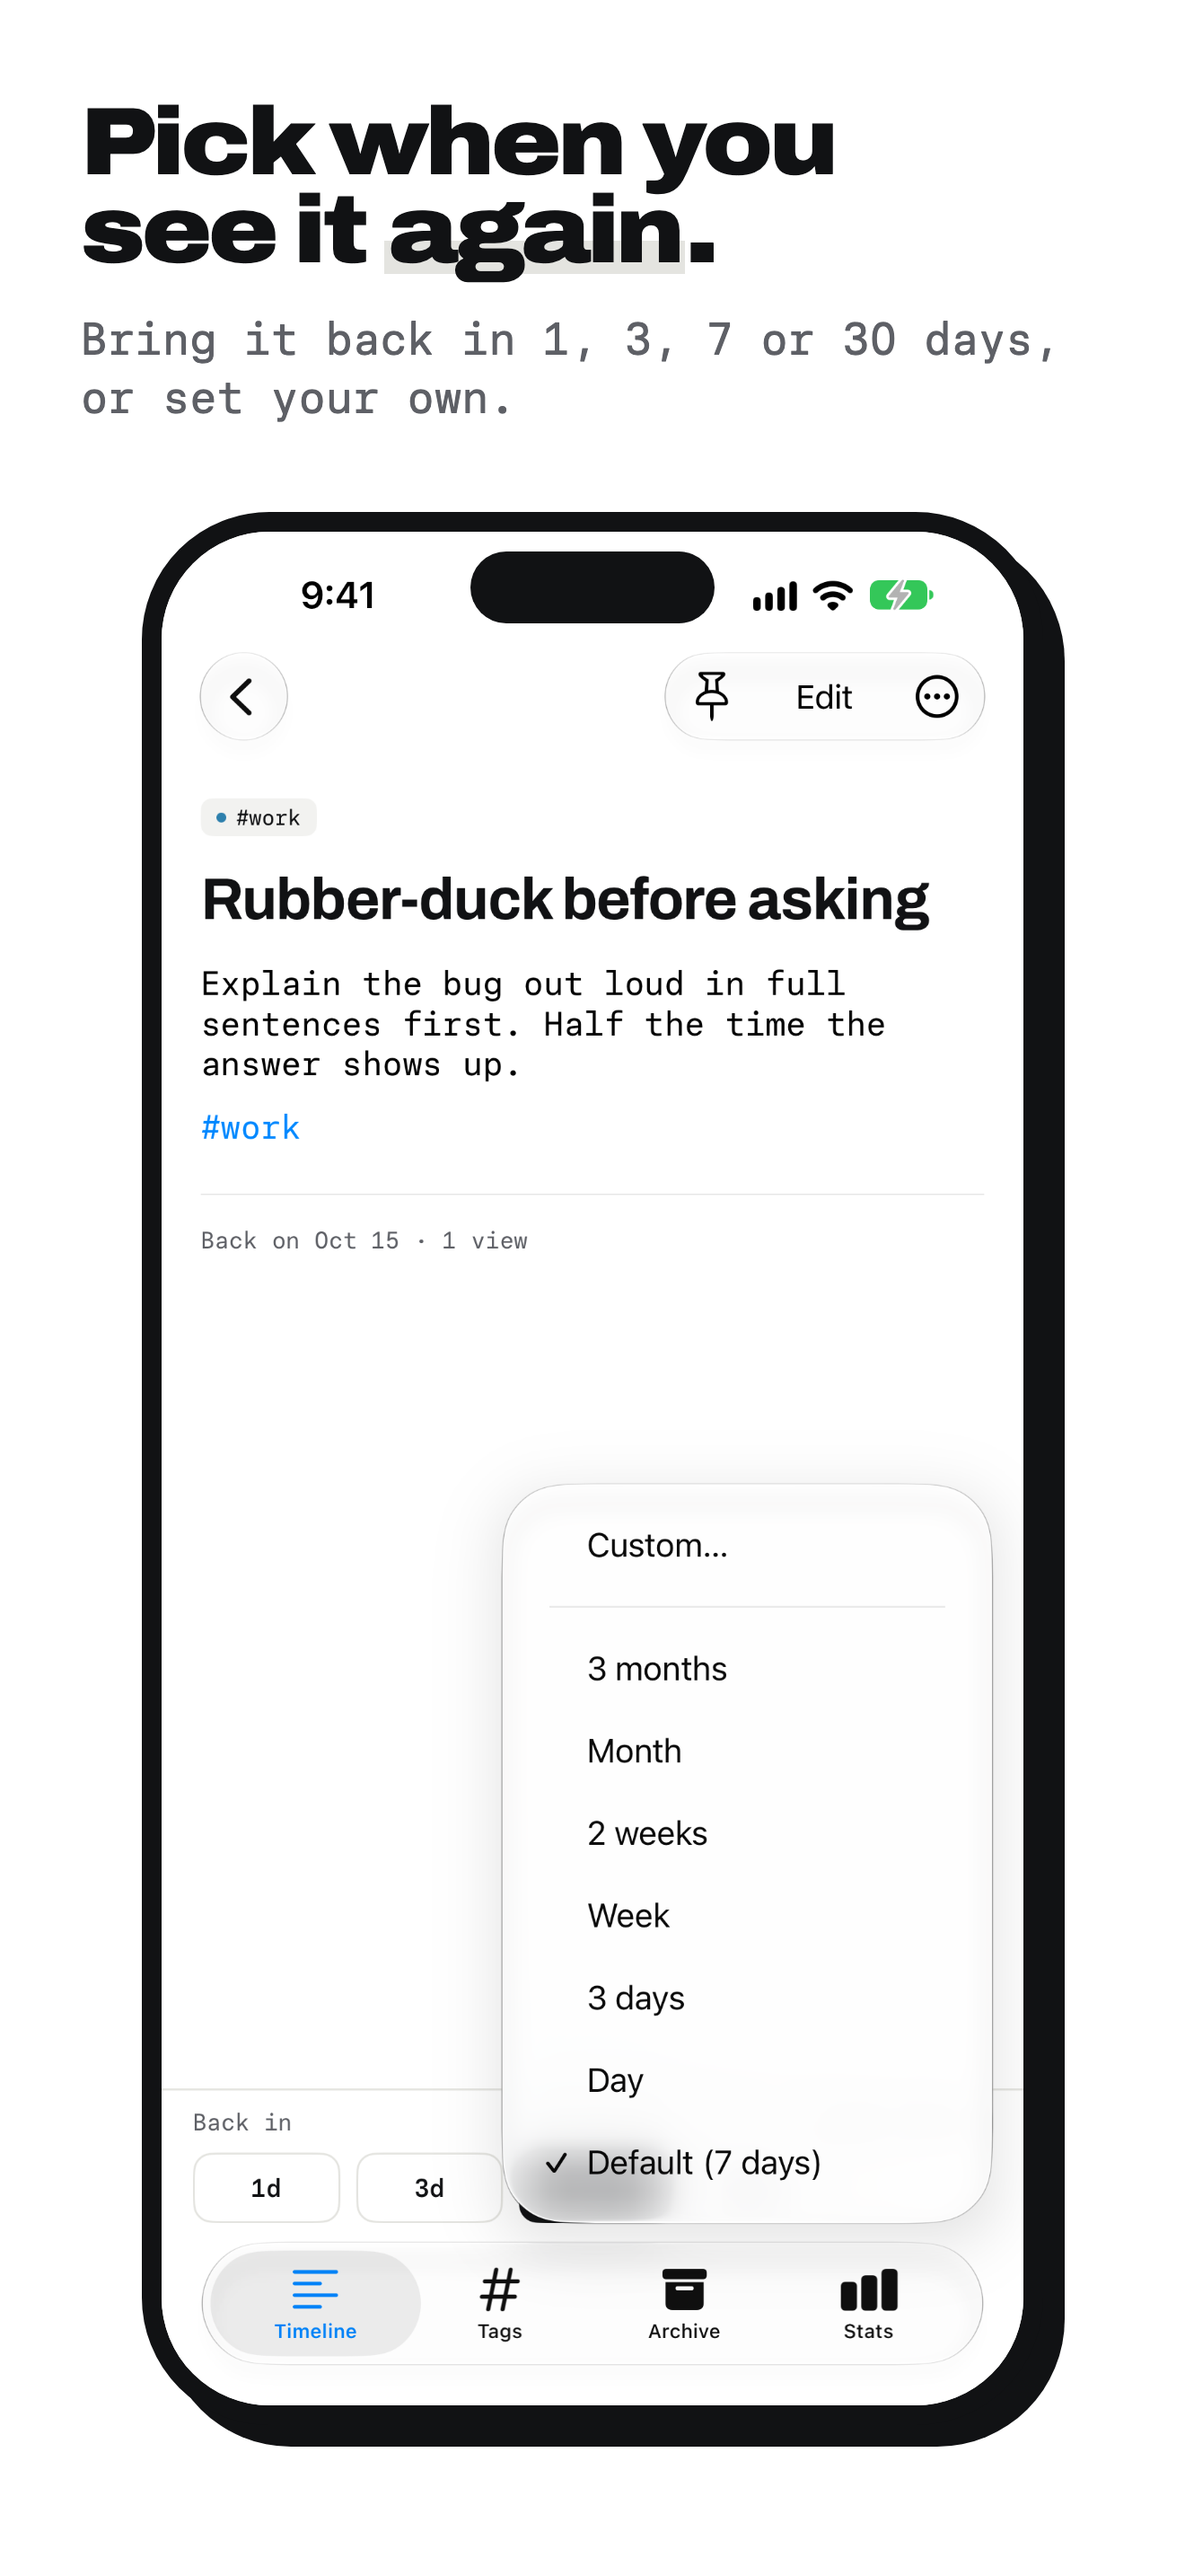
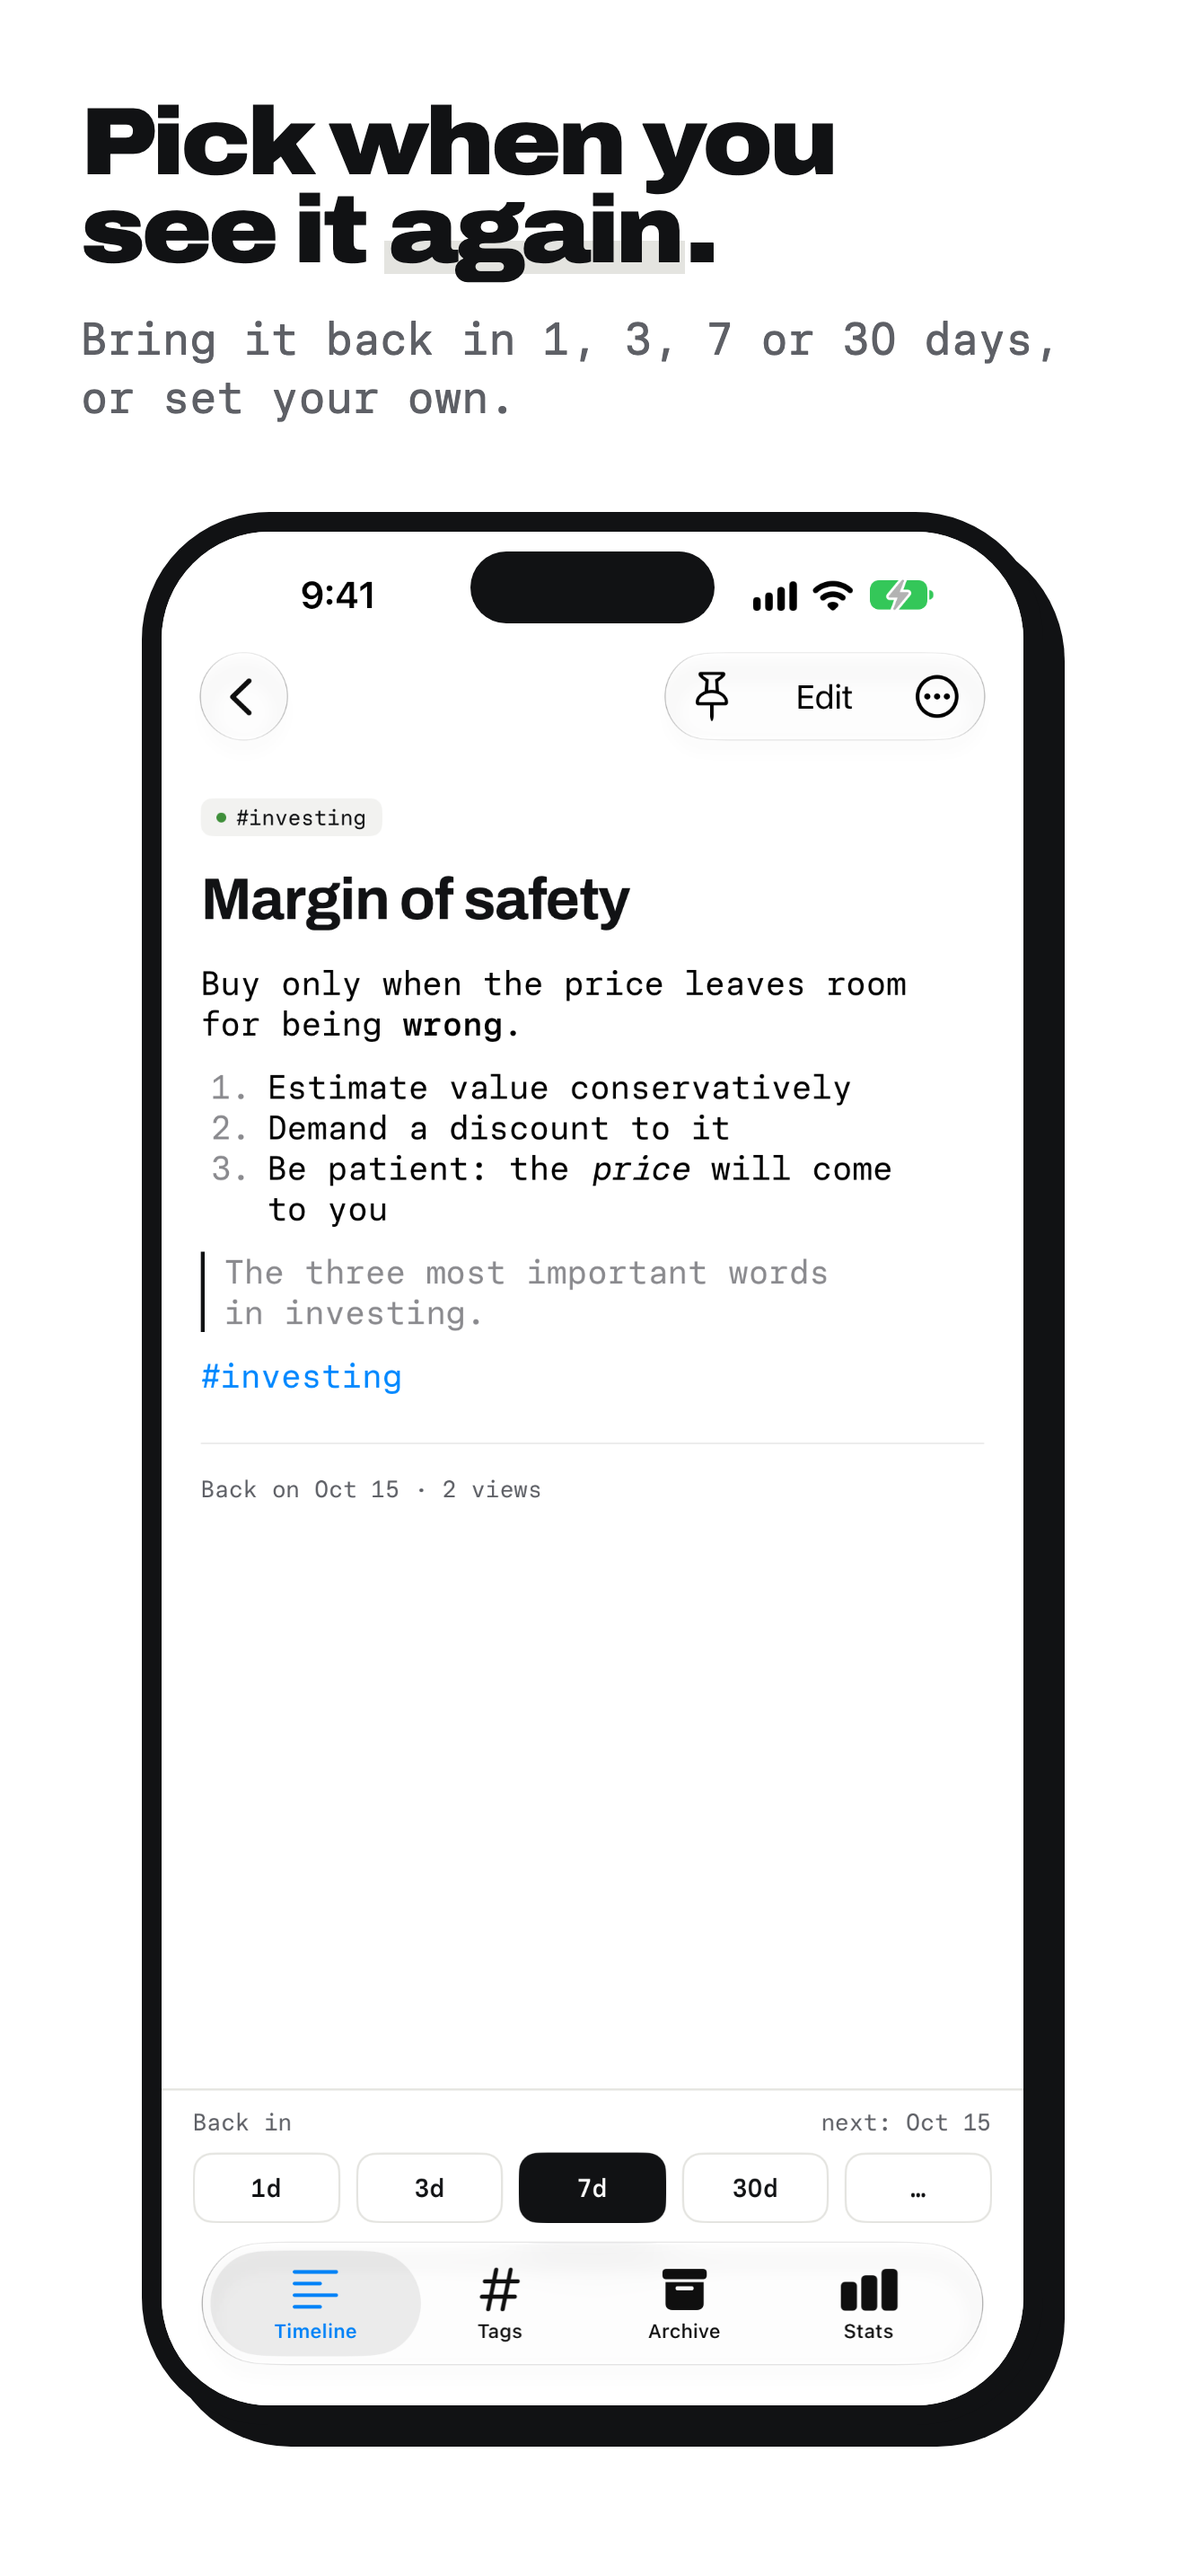
Screenshots: cleaner timeline seed, unobstructed interval bar, Lock Screen reminder notification
Claude-Session: https://claude.ai/code/session_015ZdQoipN7K44pJCazTdfff

diff --git a/ThoughtRepsUITests/ScreenshotTests.swift b/ThoughtRepsUITests/ScreenshotTests.swift
@@ -8,14 +8,17 @@ final class ScreenshotTests: XCTestCase {
 
     override func setUp() {
         continueAfterFailure = false
-        app = XCUIApplication()
-        app.launchArguments = ["-screenshotMode", "-AppleLanguages", "(en)", "-AppleLocale", "en_US"]
         XCUIDevice.shared.orientation = .portrait
+    }
+
+    private func launch(_ extraArguments: [String] = []) {
+        app = XCUIApplication()
+        app.launchArguments = ["-screenshotMode", "-AppleLanguages", "(en)", "-AppleLocale", "en_US"] + extraArguments
         app.launch()
     }
 
-    private func snap(_ name: String) {
-        Thread.sleep(forTimeInterval: 1.0)
+    private func snap(_ name: String, settle: TimeInterval = 1.0) {
+        Thread.sleep(forTimeInterval: settle)
         let attachment = XCTAttachment(data: XCUIScreen.main.screenshot().pngRepresentation, uniformTypeIdentifier: "public.png")
         attachment.name = name
         attachment.lifetime = .keepAlways
@@ -29,26 +32,27 @@ final class ScreenshotTests: XCTestCase {
     }
 
     func testTimeline() {
-        XCTAssertTrue(app.staticTexts["Margin of safety"].waitForExistence(timeout: 10))
+        launch()
+        XCTAssertTrue(app.staticTexts["Weekend in the mountains"].waitForExistence(timeout: 10))
         snap("01-timeline")
     }
 
     func testIntervalPicker() {
-        openThought("Rubber-duck before asking")
-        let more = app.buttons["More intervals"]
-        XCTAssertTrue(more.waitForExistence(timeout: 10))
-        more.tap()
-        XCTAssertTrue(app.buttons["Custom…"].waitForExistence(timeout: 10))
+        launch()
+        openThought("Margin of safety")
+        XCTAssertTrue(app.buttons["More intervals"].waitForExistence(timeout: 10))
         snap("02-interval")
     }
 
     func testMarkdownAndPhotos() {
+        launch()
         openThought("Weekend in the mountains")
         XCTAssertTrue(app.buttons["Moodboard image 1 of 4"].waitForExistence(timeout: 10))
         snap("03-markdown-photos")
     }
 
     func testSearch() {
+        launch()
         app.buttons["Search"].tap()
         let field = app.searchFields.firstMatch
         XCTAssertTrue(field.waitForExistence(timeout: 10))
@@ -62,14 +66,22 @@ final class ScreenshotTests: XCTestCase {
     }
 
     func testTags() {
+        launch()
         app.tabBars.buttons["Tags"].tap()
         XCTAssertTrue(app.staticTexts["#journal"].waitForExistence(timeout: 10))
         snap("05-tags")
     }
 
-    func testReminders() {
-        app.buttons["Settings"].tap()
-        XCTAssertTrue(app.staticTexts["Reminder"].waitForExistence(timeout: 10))
-        snap("06-reminders")
+    /// The app schedules its test reminder 5 seconds out (asking for permission the first time on a
+    /// simulator); the device is locked and the notification captured on the Lock Screen once it arrives.
+    func testReminderNotification() {
+        launch(["-screenshotReminder"])
+        let springboard = XCUIApplication(bundleIdentifier: "com.apple.springboard")
+        let allow = springboard.alerts.buttons["Allow"]
+        if allow.waitForExistence(timeout: 2) { allow.tap() }
+        XCUIDevice.shared.perform(NSSelectorFromString("pressLockButton"))
+        let banner = springboard.staticTexts["4 thoughts are back today"]
+        XCTAssertTrue(banner.waitForExistence(timeout: 20), springboard.debugDescription)
+        snap("06-reminders", settle: 0.6)
     }
 }

diff --git a/ThoughtReps/App/ScreenshotMode.swift b/ThoughtReps/App/ScreenshotMode.swift
@@ -10,6 +10,9 @@ import UniformTypeIdentifiers
 /// real store is never opened. Light mode, no prompts, no notification calls.
 enum ScreenshotMode {
     static let isActive = CommandLine.arguments.contains("-screenshotMode")
+    /// Also schedules the "Send test reminder" notification at launch. The one screenshot mode side
+    /// effect outside the app: it asks the simulator for notification permission.
+    static let sendsTestReminder = CommandLine.arguments.contains("-screenshotReminder")
 
     /// Overrides settings for this launch only: the argument domain is volatile, so nothing is persisted.
     static func overrideDefaults() {
@@ -58,19 +61,30 @@ enum ScreenshotSeed {
         ),
         Item(
             body: "# Read later: the case for slow email\nSaved Tuesday, 12 min read. You said you'd get to it.\n\n#toread",
-            createdDaysAgo: 10, dueInDays: -2, views: 1
+            createdDaysAgo: 10, dueInDays: 1, views: 1
         ),
         Item(
             body: "# Why journals work\nWriting builds reflection into the day. Notice what keeps coming back.\n\n#journal",
             createdDaysAgo: 17, dueInDays: -2, views: 1
         ),
         Item(
-            body: "# Margin of safety\nBuy only when the price leaves room for being **wrong**.\n\n#investing",
+            body: """
+            # Margin of safety
+            Buy only when the price leaves room for being **wrong**.
+
+            1. Estimate value conservatively
+            2. Demand a discount to it
+            3. Be patient: the *price* will come to you
+
+            > The three most important words in investing.
+
+            #investing
+            """,
             createdDaysAgo: 15, dueInDays: -1, views: 1
         ),
         Item(
             body: "# Rubber-duck before asking\nExplain the bug out loud in full sentences first. Half the time the answer shows up.\n\n#work",
-            createdDaysAgo: 7, dueInDays: 0
+            createdDaysAgo: 7, dueInDays: 2
         ),
         Item(
             body: """
@@ -148,10 +162,13 @@ enum ScreenshotSeed {
             let nextDueAt = Scheduler.adding(days: item.dueInDays, to: now, calendar: calendar)
                 .addingTimeInterval(item.dueInDays == 0 ? -3600 : 0)
             let lastViewedAt = item.views > 0
-                ? Scheduler.adding(
-                    days: -thought.effectiveIntervalDays(defaultDays: Scheduler.defaultIntervalDays),
-                    to: nextDueAt,
-                    calendar: calendar
+                ? min(
+                    Scheduler.adding(
+                        days: -thought.effectiveIntervalDays(defaultDays: Scheduler.defaultIntervalDays),
+                        to: nextDueAt,
+                        calendar: calendar
+                    ),
+                    Scheduler.adding(days: -1, to: now, calendar: calendar)
                 )
                 : nil
             store.overrideSchedule(thought, nextDueAt: nextDueAt, lastViewedAt: lastViewedAt, viewCount: item.views)

diff --git a/ThoughtReps/App/RootTabView.swift b/ThoughtReps/App/RootTabView.swift
@@ -121,6 +121,9 @@ struct RootTabView: View {
             ThoughtStore(context: context).cleanUpPendingImageSaves()
             #if DEBUG
             if !ScreenshotMode.isActive { SampleData.seedIfNeeded(context: context) }
+            if ScreenshotMode.sendsTestReminder {
+                Task { _ = await NotificationScheduler.sendTestReminder(context: context, now: .now) }
+            }
             IntegrityChecker.logViolations(in: context)
             #endif
             await SearchIndexStatus.shared.reconcile(container: context.container)

diff --git a/app-store-assets/Screenshots/README.md b/app-store-assets/Screenshots/README.md
@@ -12,18 +12,20 @@ The product page screenshots (Apple's "Screenshots" asset): real simulator captu
 
 Output is `static/<name>-1320x2868.png`. The copy lives in one place, `src/copy.js`. Claims are checked against the shipped app (default interval 7 days, 1d/3d/7d/30d chips plus more intervals and "Custom…", Markdown and gallery blocks, Active/Archived/All search, tag colors, one daily reminder at the chosen time); nothing from Study mode.
 
-1. `01-timeline`: "Write it down. It comes back." / "Write a thought and it returns to your timeline in 7 days." The Timeline with a pinned thought and due thoughts.
-2. `02-interval`: "Pick when you see it again." / "Bring it back in 1, 3, 7 or 30 days, or set your own." A thought's "Back in" bar with the more-intervals menu open.
+1. `01-timeline`: "Write it down. It comes back." / "Write a thought and it returns to your timeline in 7 days." The Timeline with a pinned thought and four due thoughts (the seed keeps the list ending above the + button).
+2. `02-interval`: "Pick when you see it again." / "Bring it back in 1, 3, 7 or 30 days, or set your own." A thought with its "Back in" bar: 1d, 3d, 7d (selected), 30d and the more-intervals chip.
 3. `03-markdown-photos`: "Write in Markdown, add photos." / "Headings, lists, quotes and photo galleries in any thought." A thought with bold, italic, a list, a quote and a gallery.
 4. `04-search`: "Find any thought in a second." / "Search everything you have written, active or archived." Search for "reflect", matches in bold.
 5. `05-tags`: "Sort with #tags." / "Tag thoughts as you write, and give each tag its own color." The Tags list.
-6. `06-reminders`: "Get a nudge, not a nag." / "One reminder a day at the time you pick, only when thoughts are due." Settings, Reminder section turned on.
+6. `06-reminders`: "Get a nudge, not a nag." / "One reminder a day at the time you pick, only when thoughts are due." The reminder notification on the Lock Screen ("Thought Reps", "4 thoughts are back today").
 
 The phone is drawn in CSS (ink border, hard offset shadow, a plain island); it is not Apple artwork. All six use one headline size, the largest at which the widest headline fits.
 
 ## How the captures work
 
-`ThoughtRepsUITests/ScreenshotTests.swift` launches the app with the DEBUG-only `-screenshotMode` argument (`ThoughtReps/App/ScreenshotMode.swift`, compiled out of Release). In that mode the store and search index are in memory and filled by `ScreenshotSeed` through `ThoughtStore` (so the real store is never opened), the app is forced to light mode, the rating and reminder prompts are suppressed, no notification calls are made, the Developer settings section is hidden, and settings are overridden for that launch only (reminder on at 8:00 AM, 7-day default). The gallery images are drawn in code, so no photos or image files are bundled. Each test attaches one PNG of the whole screen (1320x2868); `gen.mjs` exports them from the `.xcresult` into `raw/`.
+`ThoughtRepsUITests/ScreenshotTests.swift` launches the app with the DEBUG-only `-screenshotMode` argument (`ThoughtReps/App/ScreenshotMode.swift`, compiled out of Release). In that mode the store and search index are in memory and filled by `ScreenshotSeed` through `ThoughtStore` (so the real store is never opened), the app is forced to light mode, the rating and reminder prompts are suppressed, no notification calls are made, the Developer settings section and the export-link refresh are skipped, and settings are overridden for that launch only (reminder on at 8:00 AM, 7-day default). The gallery images are drawn in code, so no photos or image files are bundled. The reminder shot is the one exception to "no side effects": the extra `-screenshotReminder` argument calls `NotificationScheduler.sendTestReminder` at launch, so the simulator is asked for notification permission (the UI test taps Allow), then the device is locked and the notification captured on the Lock Screen. The real store is still never touched; only run `--capture` on the dedicated simulator. The Lock Screen clock reads 9:41 and the date "Sat Jan 1" because of the status bar override, and the notification says "2m ago".
+
+Each test attaches one PNG of the whole screen (1320x2868); `gen.mjs` exports them from the `.xcresult` into `raw/`.
 
 The tests live in their own scheme, `ThoughtRepsScreenshots`, so a normal `xcodebuild test` of `ThoughtReps` does not run them. To change a screen, edit the seed or the test, re-run `--capture`, and commit the new `raw/` files.
 
